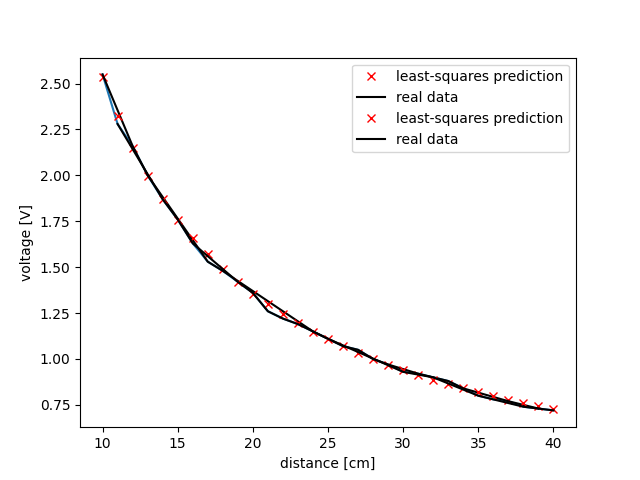
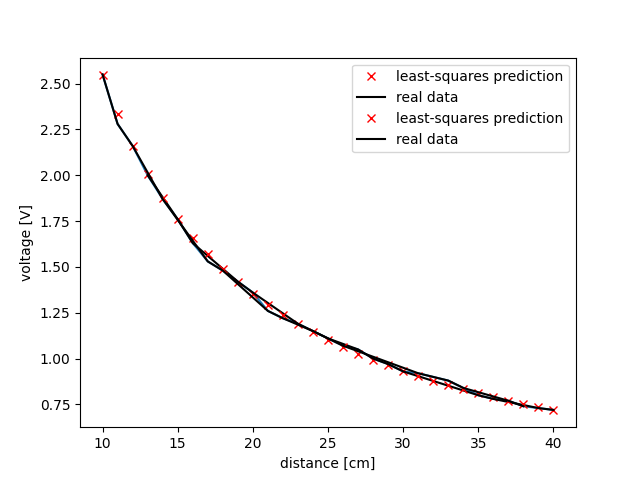
modified calibrate.py, calculate k1, k2 with multiple times averages

diff --git a/Lab/calibrate.py b/Lab/calibrate.py
@@ -11,14 +11,13 @@ def generate_random(length):
     import random
 
     index = list(np.arange(0,length,1))
-    x = random.sample(y, int(length/2))
-    x.sort()
-    y = []
+    random.shuffle(index)
 
-    for i in index:
-        if i in x:
-            continue
-        y.append(i)
+    x = index[:int(length/2)]
+    y = index[int(length/2):]
+
+    x.sort()
+    y.sort()
     
     return x, y
  
@@ -30,52 +29,59 @@ plt.xlabel('distance [cm]')
 plt.ylabel('voltage [V]')
 plt.savefig('general_shape.png')
 
-sample1, sample2 = generate_random(len(distances))
-distances_trimed=distances[sample1]
-raw_measurements_total_trimed=raw_measurements_total[sample1]
- 
-# validation data 
-distances2=distances[sample2]
-raw_measurements2=raw_measurements_total[sample2]
- 
-print(distances_trimed)
-print(distances2)
-n=distances_trimed.shape[0]
-y=np.zeros(shape=(n,1))
-A=np.zeros(shape=(n,2))
- 
-for i in range(n):
-    y[i,0]=np.log(raw_measurements_total_trimed[i])
-    A[i,0]=1
-    A[i,1]=np.log(distances_trimed[i])
- 
-# solution    
-c=np.matmul(np.matmul(np.linalg.inv(np.matmul(A.T,A)),A.T),y)
-k1=np.exp(c[0])
-k2=c[1]
- 
-# test on the estimation data
-raw_measurements_total_trimed_prediction=np.zeros(shape=(n,1))
-for i in range(n):
-    raw_measurements_total_trimed_prediction[i]=k1*distances_trimed[i]**(k2)
- 
-plt.plot(distances_trimed,raw_measurements_total_trimed_prediction,'xr',label='least-squares prediction')
-plt.plot(distances_trimed,raw_measurements_total_trimed,'k',label='real data')
-plt.xlabel('distance [cm]')
-plt.ylabel('voltage [V]')
-plt.legend()
-plt.savefig('estimation_curve.png')
- 
-# test on the validation data 
-n1=distances2.shape[0]
-raw_measurements2_prediction=np.zeros(shape=(n1,1))
-for i in range(n1):
-    raw_measurements2_prediction[i]=k1*distances2[i]**(k2)
+k1 = 0
+k2 = 0
+
+times = 5000
+for _ in range(times):
+    sample1, sample2 = generate_random(len(distances))
+    distances_trimed=distances[sample1]
+    raw_measurements_total_trimed=raw_measurements_total[sample1]
     
+    # validation data 
+    distances2=distances[sample2]
+    raw_measurements2=raw_measurements_total[sample2]
+    
+    # print(distances_trimed)
+    # print(distances2)
+    n=distances_trimed.shape[0]
+    y=np.zeros(shape=(n,1))
+    A=np.zeros(shape=(n,2))
+    
+    for i in range(n):
+        y[i,0]=np.log(raw_measurements_total_trimed[i])
+        A[i,0]=1
+        A[i,1]=np.log(distances_trimed[i])
+    
+    # solution    
+    c=np.matmul(np.matmul(np.linalg.inv(np.matmul(A.T,A)),A.T),y)
+    k1+=np.exp(c[0])
+    k2+=c[1]
+    
+    # test on the estimation data
+    # raw_measurements_total_trimed_prediction=np.zeros(shape=(n,1))
+    # for i in range(n):
+    #     raw_measurements_total_trimed_prediction[i]=k1*distances_trimed[i]**(k2)
+    
+    # plt.plot(distances_trimed,raw_measurements_total_trimed_prediction,'xr',label='least-squares prediction')
+    # plt.plot(distances_trimed,raw_measurements_total_trimed,'k',label='real data')
+    # plt.xlabel('distance [cm]')
+    # plt.ylabel('voltage [V]')
+    # plt.legend()
+    # plt.savefig('estimation_curve.png')
+    
+    # test on the validation data 
+    # n1=distances2.shape[0]
+    # raw_measurements2_prediction=np.zeros(shape=(n1,1))
+    # for i in range(n1):
+    #     raw_measurements2_prediction[i]=k1*distances2[i]**(k2)
+
+k1 /= times
+k2 /= times
 print(k1, k2)
-plt.plot(distances2,raw_measurements2_prediction,'xr',label='least-squares prediction')
-plt.plot(distances2,raw_measurements2,'k',label='real data')
-plt.xlabel('distance [cm]')
-plt.ylabel('voltage [V]')
-plt.legend()
-plt.savefig('validation_curve.png')
+    # plt.plot(distances2,raw_measurements2_prediction,'xr',label='least-squares prediction')
+    # plt.plot(distances2,raw_measurements2,'k',label='real data')
+    # plt.xlabel('distance [cm]')
+    # plt.ylabel('voltage [V]')
+    # plt.legend()
+    # plt.savefig('validation_curve.png')
